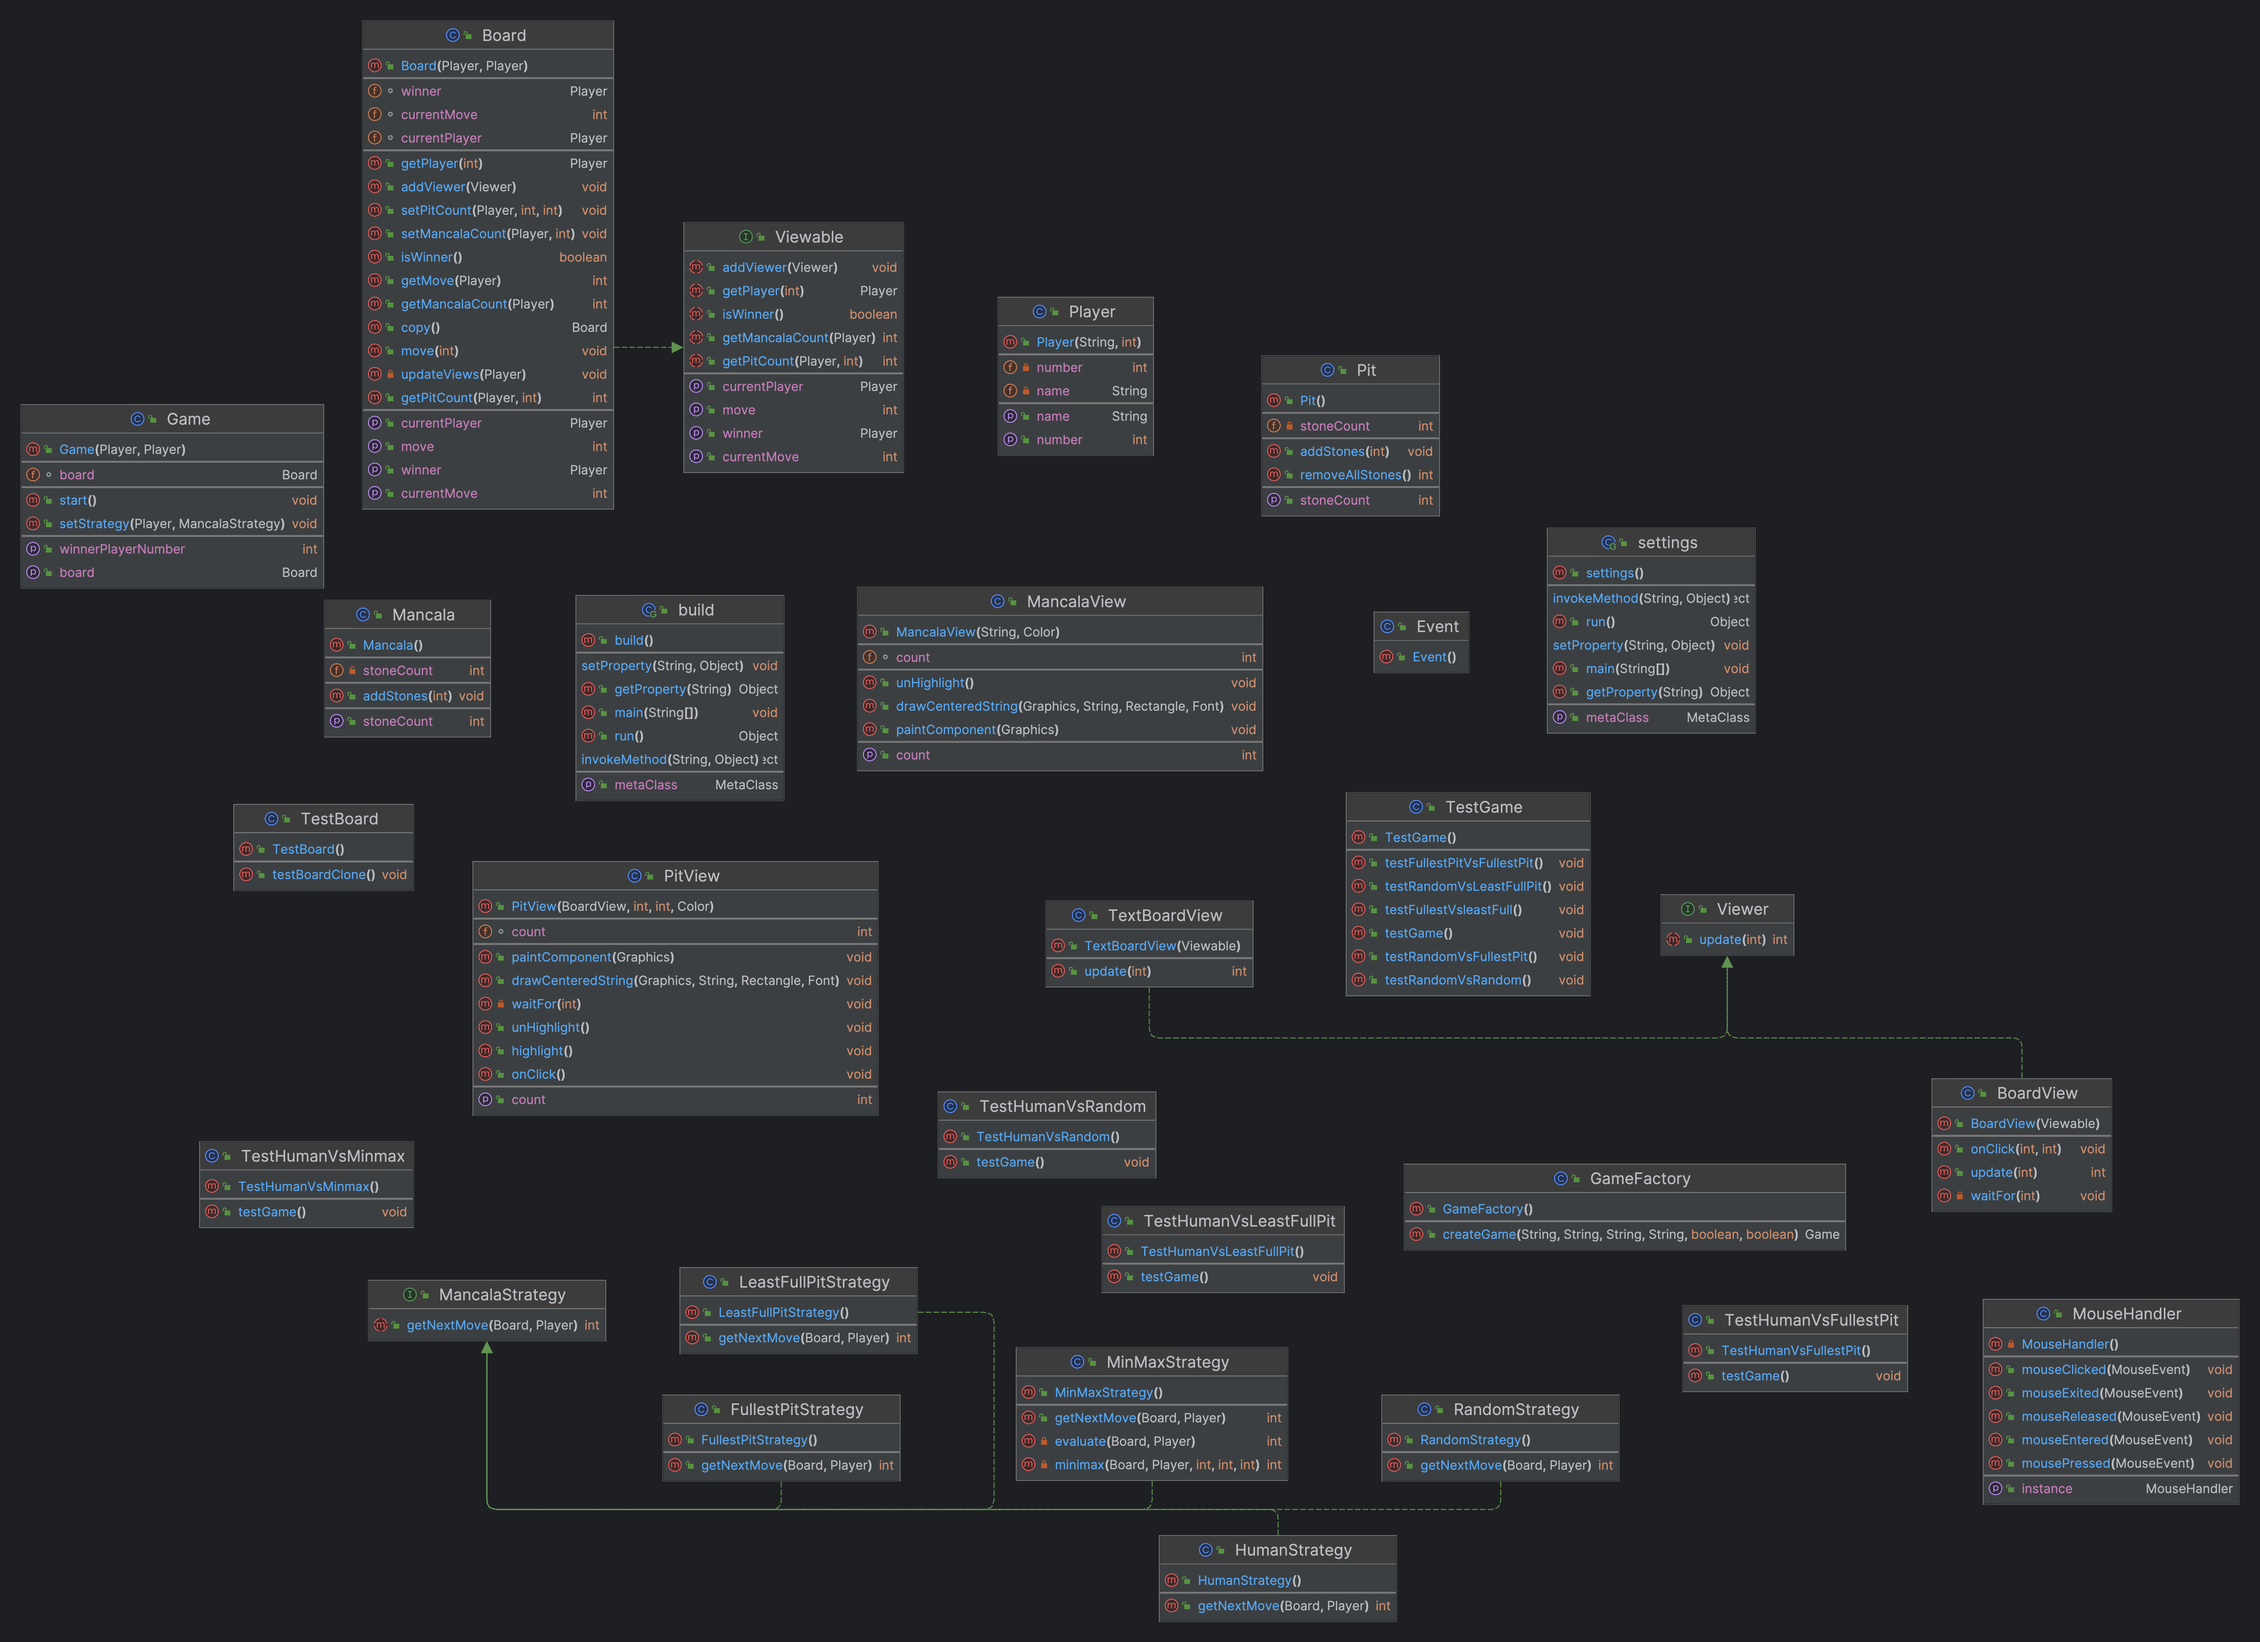
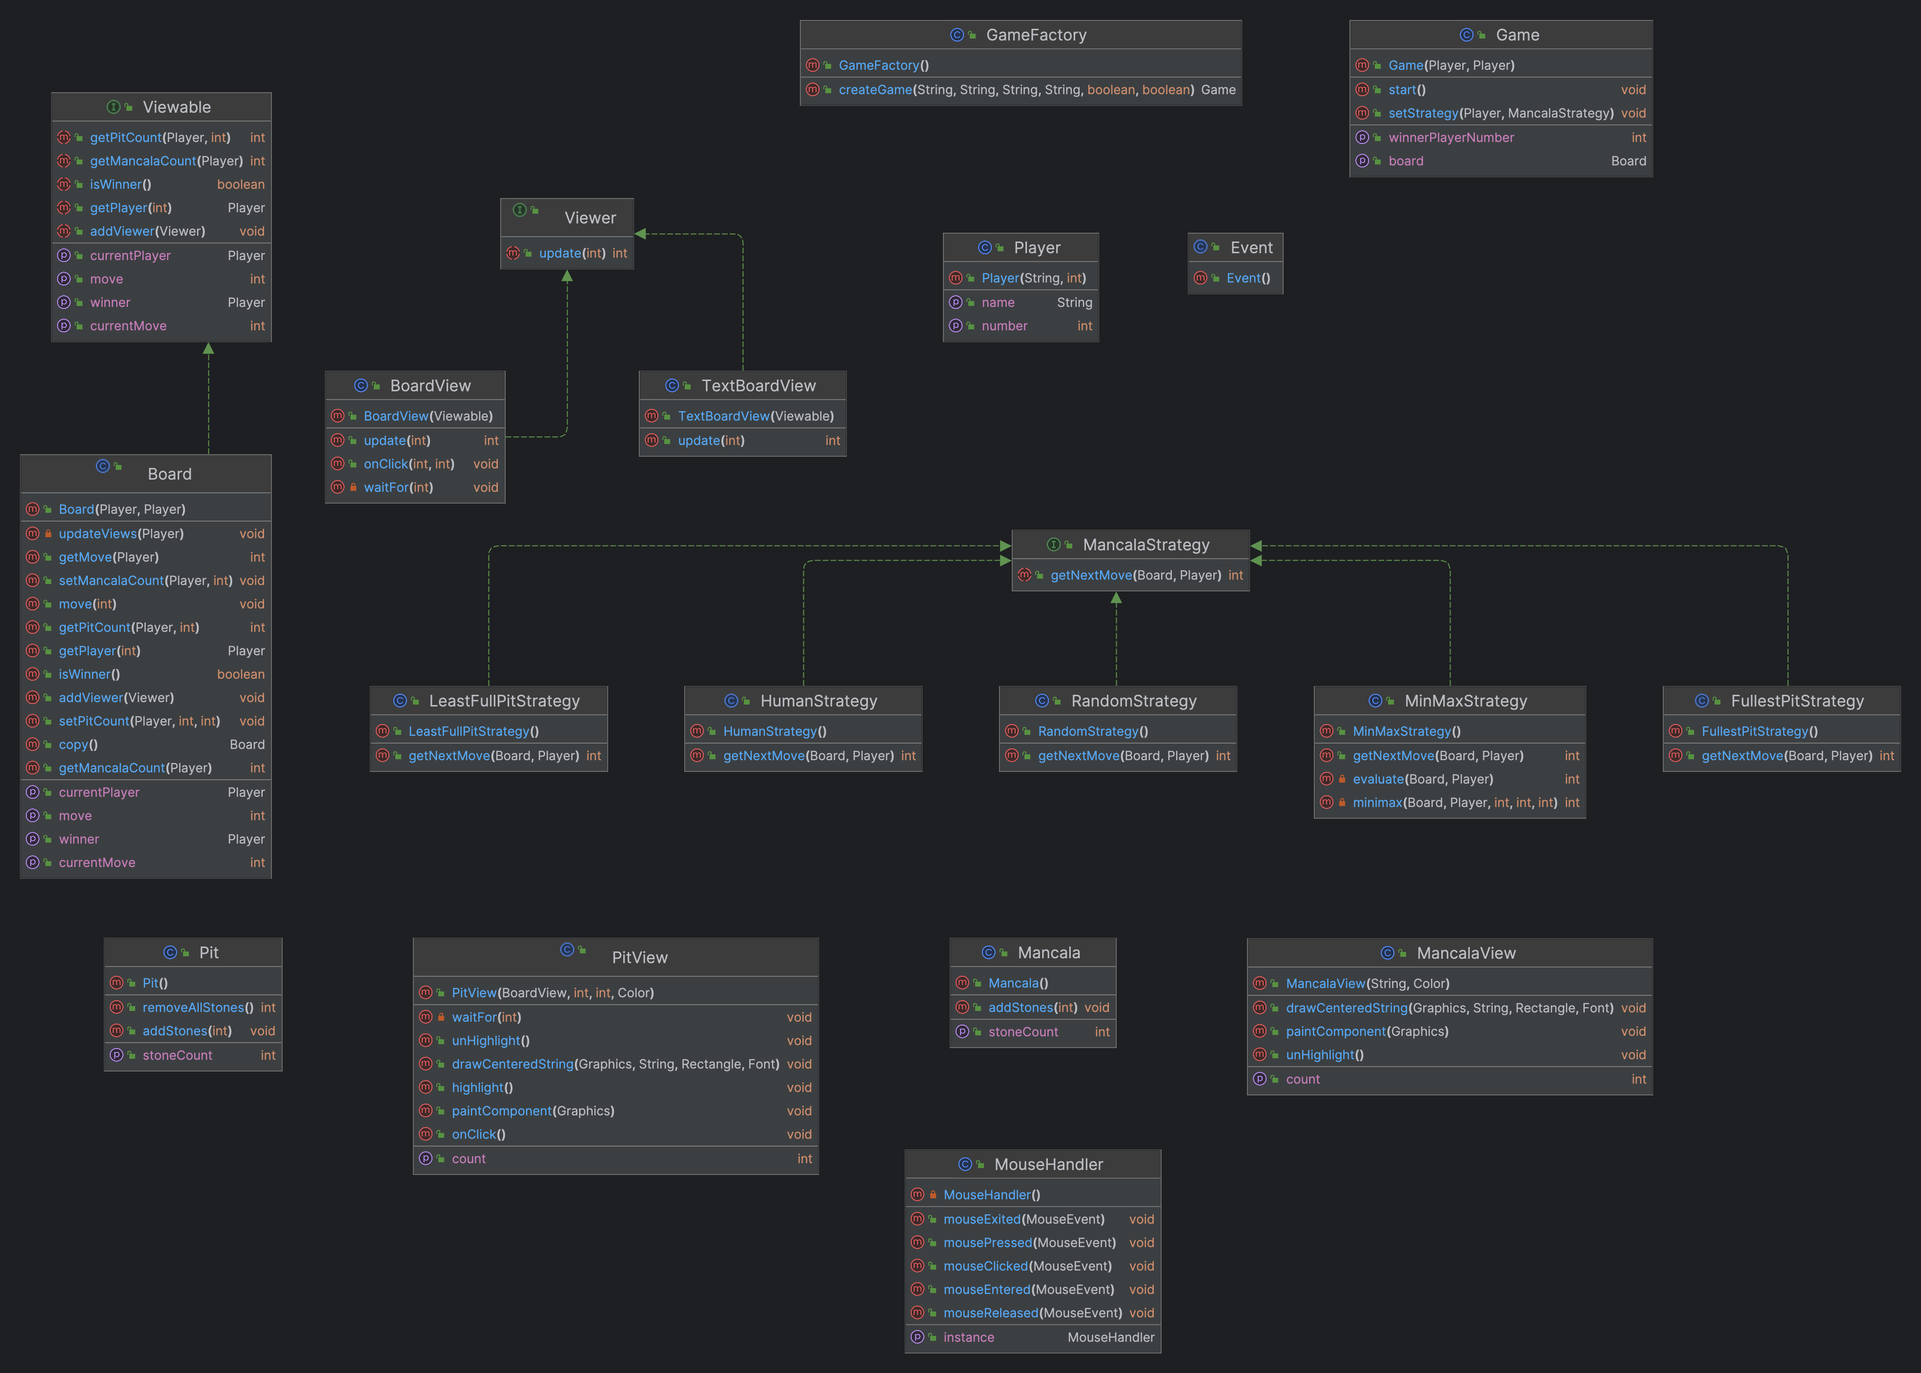
Updated uml diagram and implemented new test in TestBoard

diff --git a/src/test/java/TestBoard.java b/src/test/java/TestBoard.java
@@ -24,9 +24,9 @@ public class TestBoard {
         Assertions.assertTrue(newCount == count );
         Assertions.assertEquals(99, copyCount);
     }
+
     @Test
     @DisplayName("test move")
-
     public void testMove() {
         Player player1 = new Player("A", 1);
         Player player2 = new Player("B", 2);
@@ -36,6 +36,7 @@ public class TestBoard {
         // chose p0 and confirm that the board looks correct after the move
         board.move(0);
 
+        // test that boards pit counts are as expected
         Assertions.assertEquals(0, board.getPitCount(player1, 0));
         Assertions.assertEquals(5, board.getPitCount(player1, 1));
         Assertions.assertEquals(5, board.getPitCount(player1, 2));

diff --git a/src/main/java/Viewable.java b/src/main/java/Viewable.java
@@ -1,3 +1,4 @@
+// all the required methods for the viewers (Observers)
 public interface Viewable {
     public void addViewer(Viewer viewer);
     public int getPitCount(Player player, int pit);
